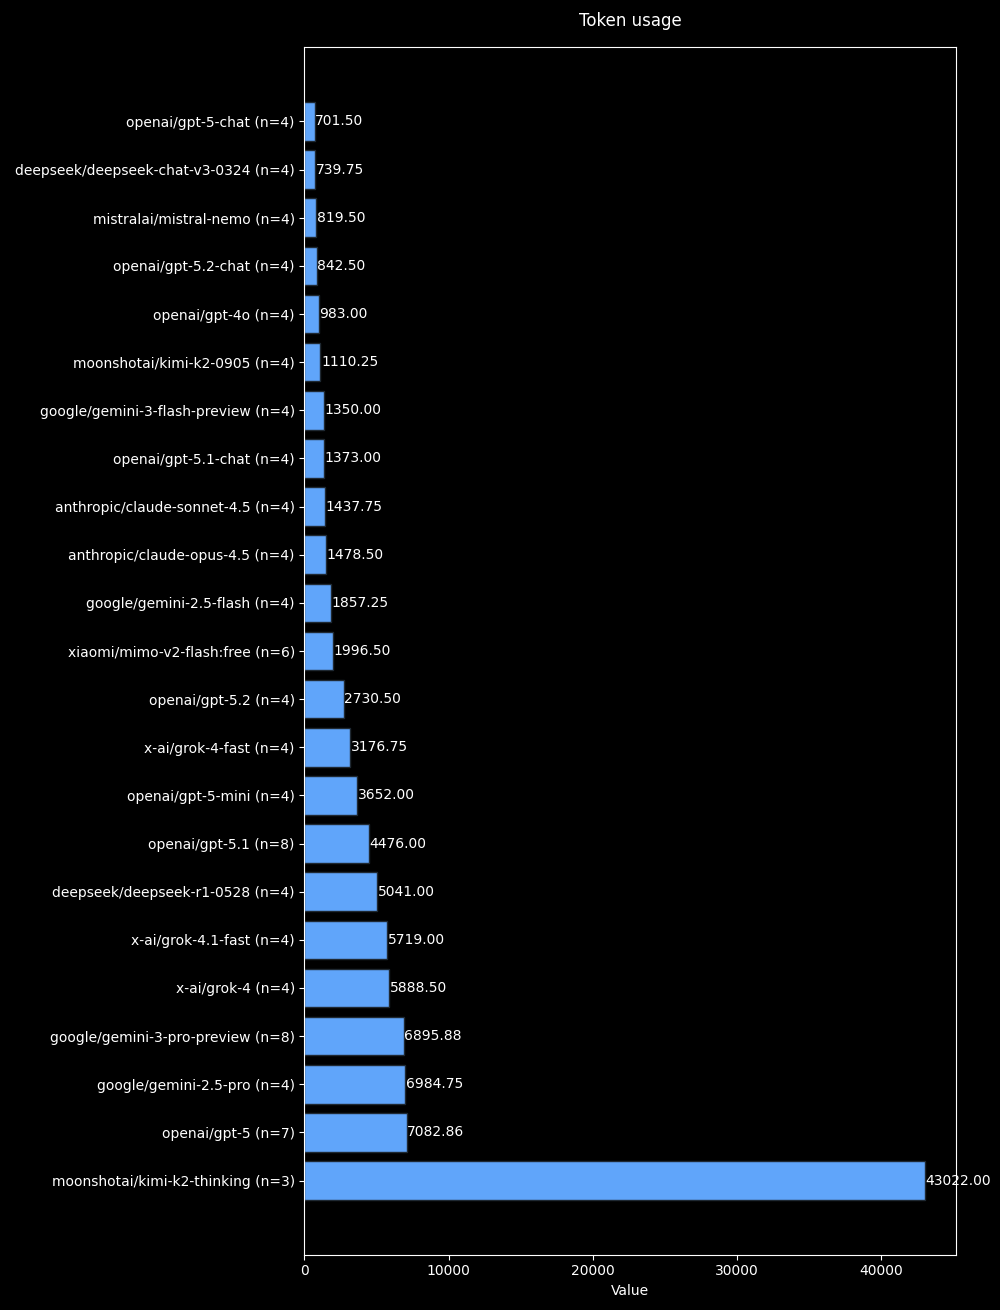
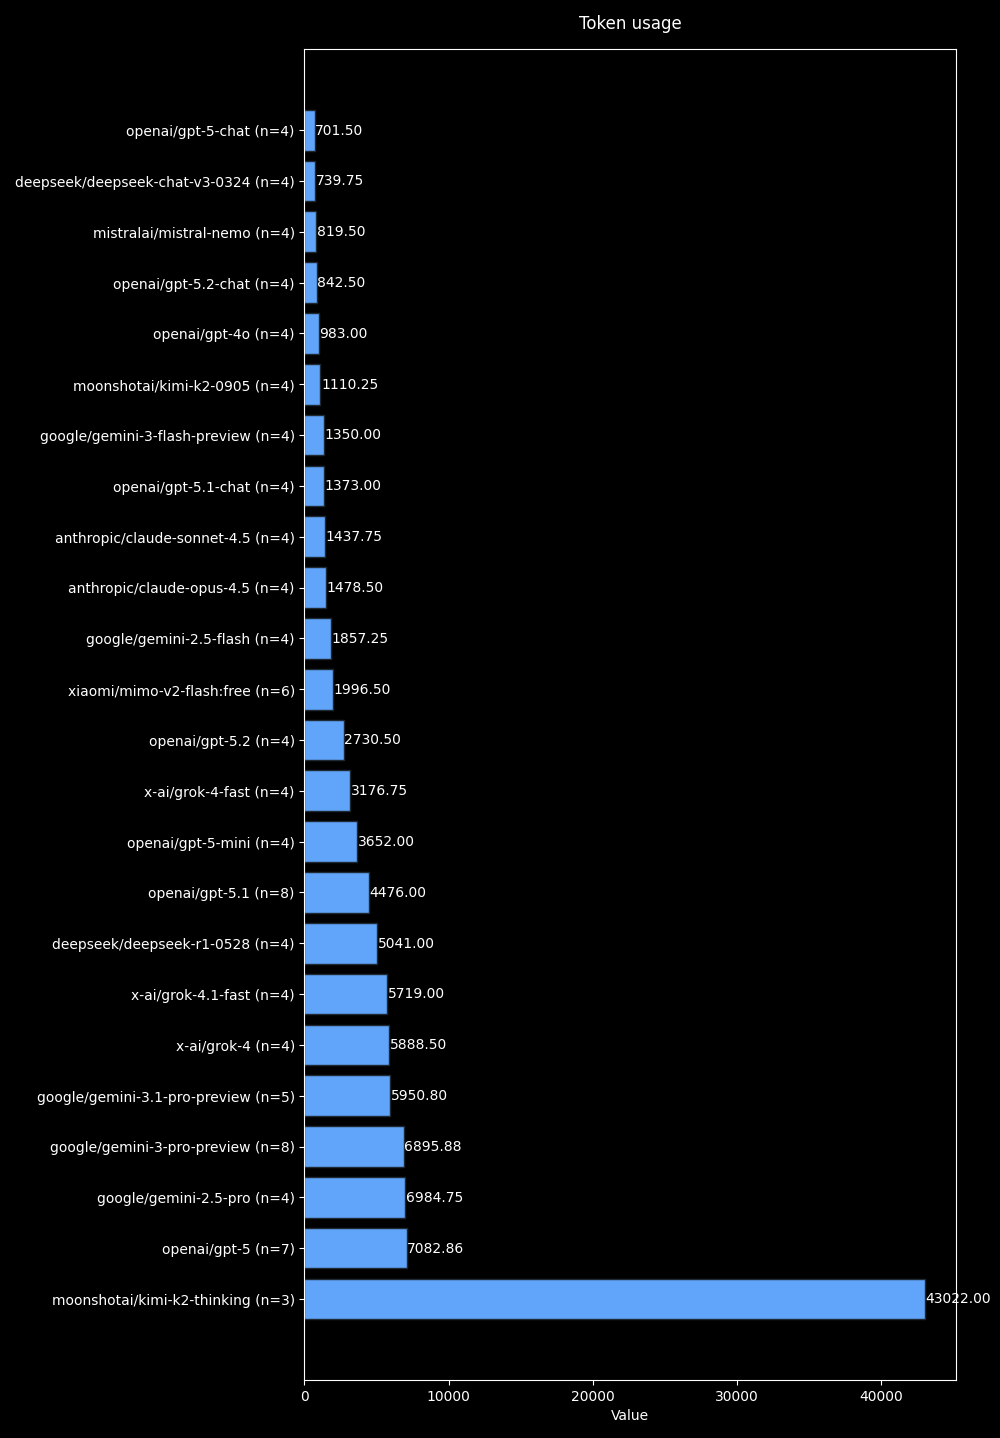
Add Gemini 3.1 Pro

diff --git a/v2/consts.py b/v2/consts.py
@@ -73,7 +73,8 @@ def _build_solution_map(solution_text: str) -> Dict[int, str]:
 
 SOLUTION = _build_solution_map(SOLUTION_STRING)
 MODELS = [
-    "google/gemini-3-pro-preview",
+    # "google/gemini-3-pro-preview",
+    "google/gemini-3.1-pro-preview",
     # "google/gemini-3-flash-preview",
     # "google/gemini-2.5-pro",
     # "google/gemini-2.5-flash",
@@ -85,9 +86,9 @@ MODELS = [
     # "deepseek/deepseek-r1-0528",
     # "openai/gpt-5.2",
     # "openai/gpt-5.2-chat",
-    "openai/gpt-5.1",
+    # "openai/gpt-5.1",
     # "openai/gpt-5.1-chat",
-    "openai/gpt-5",
+    # "openai/gpt-5",
     # "openai/gpt-5-chat",
     # "openai/gpt-5-mini",
     # "openai/gpt-4o",
